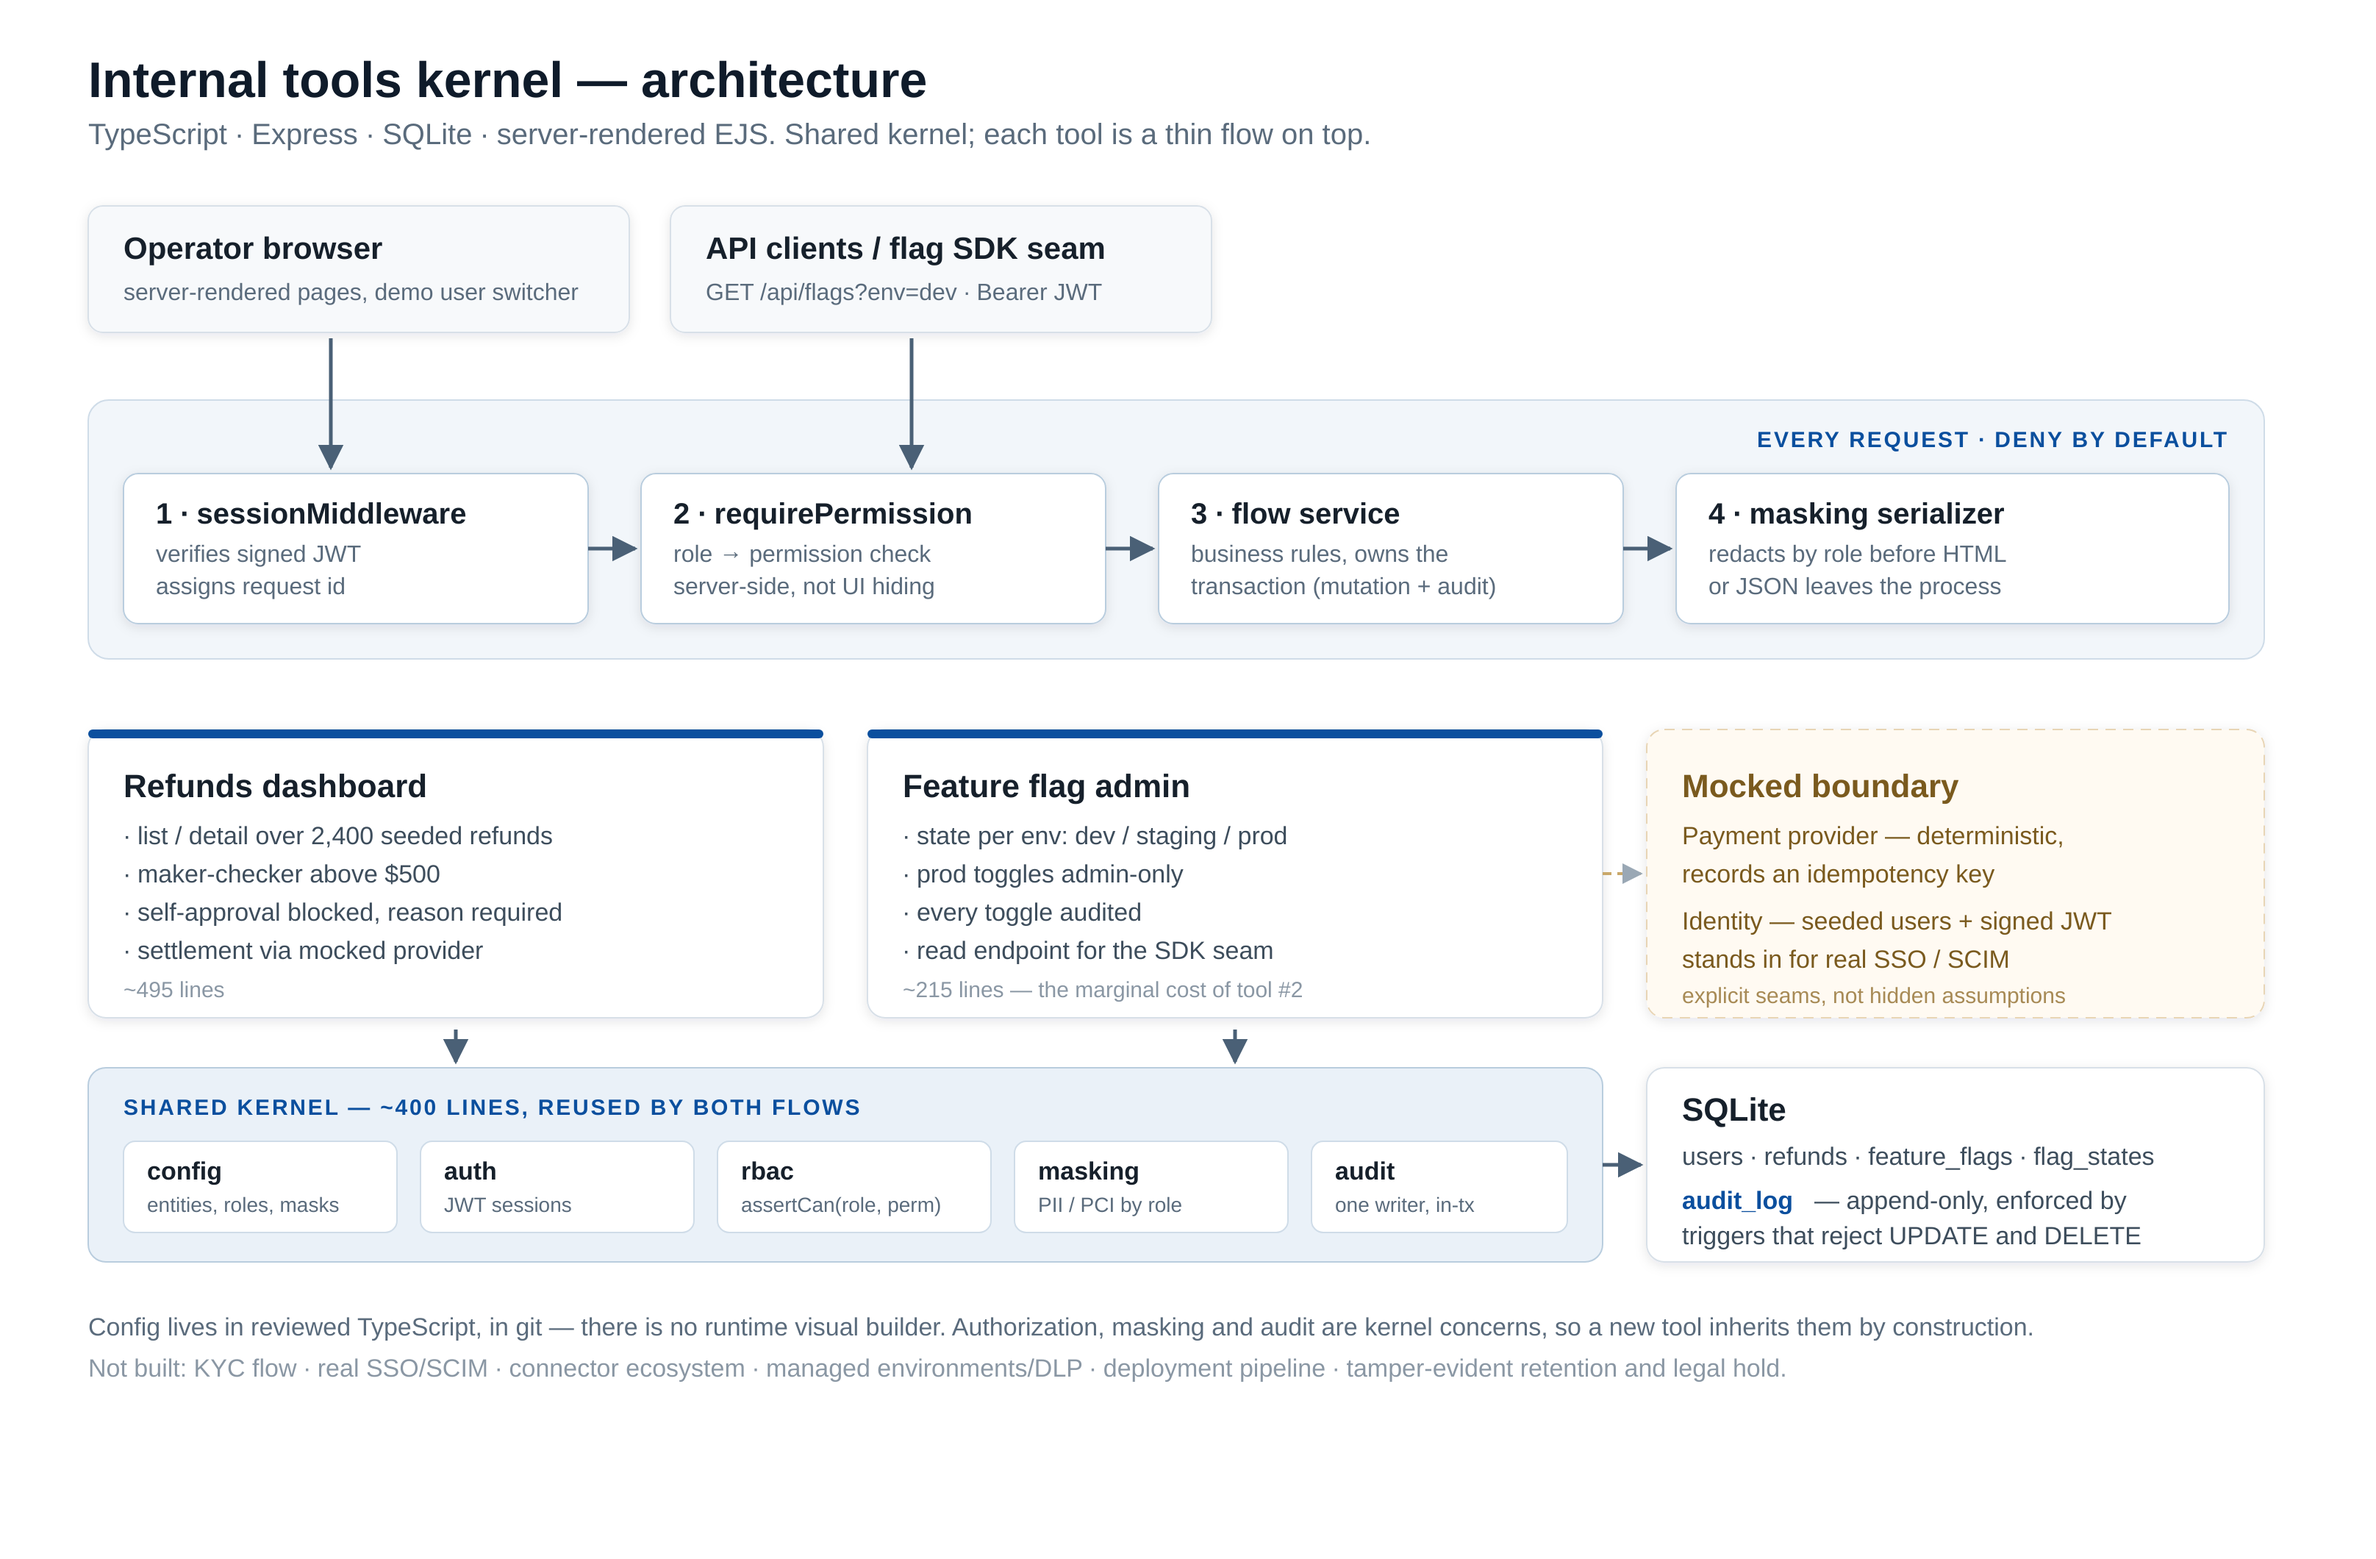
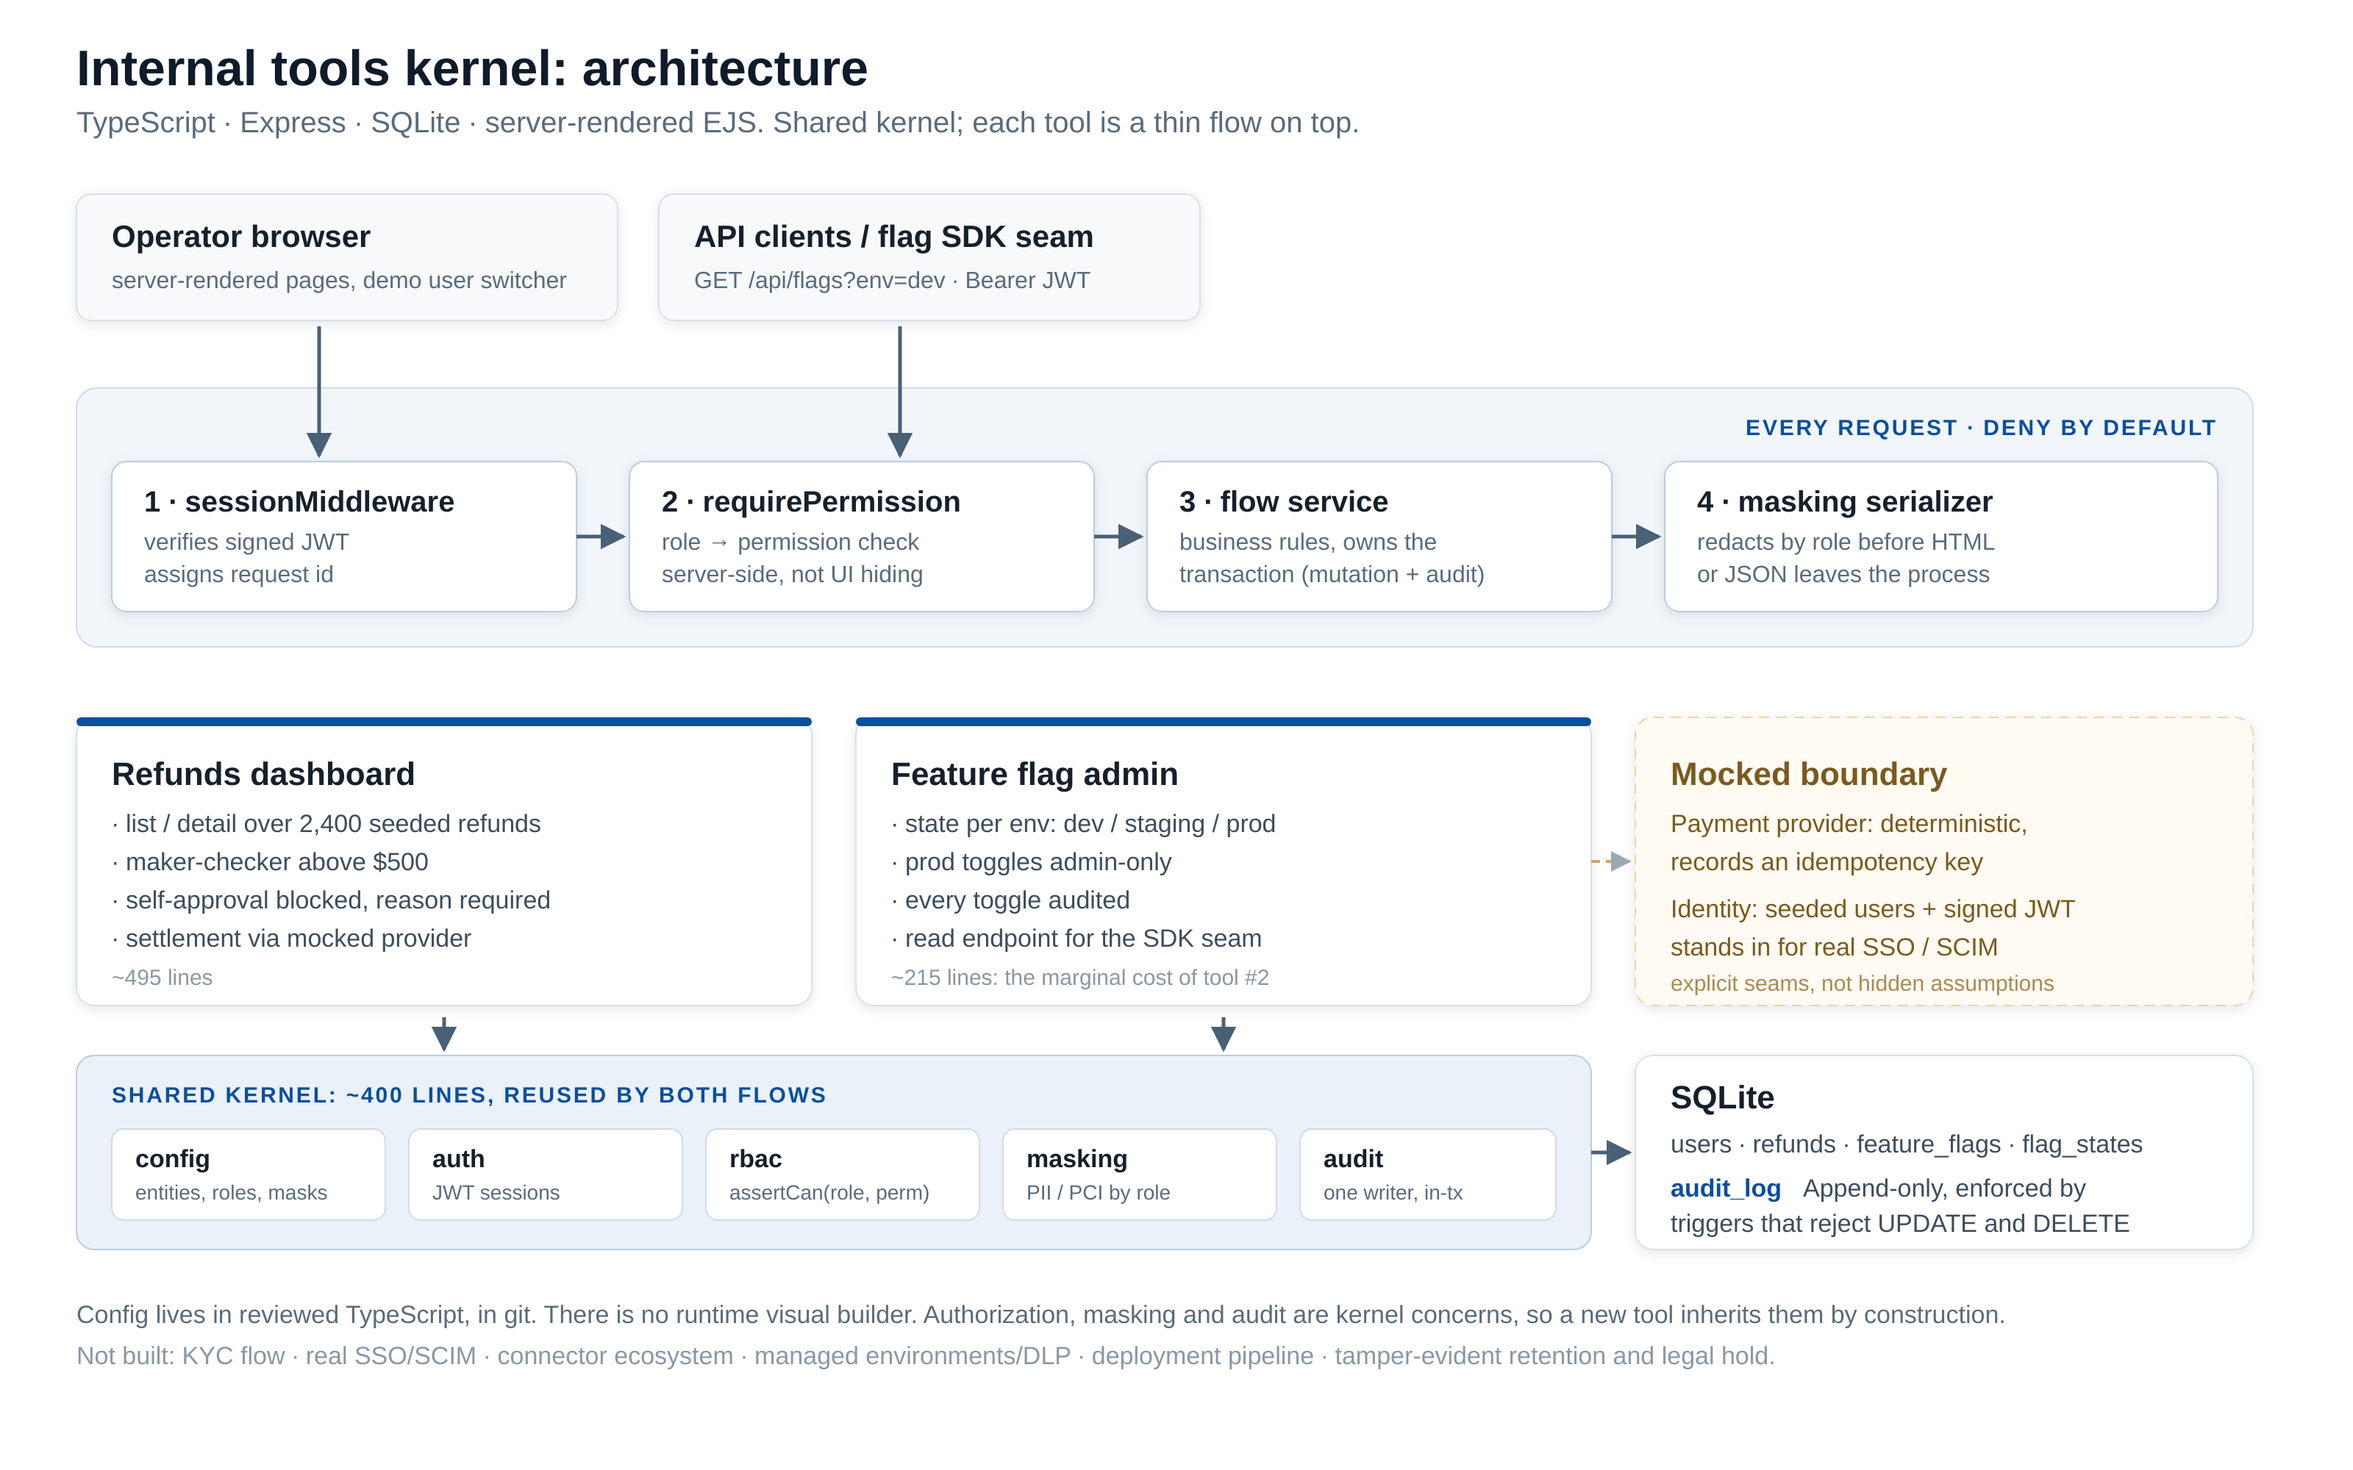
Remove em dashes from deck and architecture diagram

diff --git a/docs/slides.md b/docs/slides.md
@@ -31,7 +31,8 @@ style: |
   .cols > div { flex: 1; }
   .card { background: #f4f7fa; border-radius: 12px; padding: 22px 26px; }
   .card.warn { background: #fdf7ee; }
-  .muted { color: #5a6b7c; font-size: 21px; }
+  .muted { color: #5a6b7c; font-size: 20px; }
+  section.tight { font-size: 25px; }
   .kicker { color: #0b4f9e; font-size: 20px; letter-spacing: 1.6px; text-transform: uppercase; font-weight: bold; }
   section.title { background: #0f1b2a; color: #ffffff; justify-content: center; }
   section.title h1 { color: #ffffff; font-size: 58px; }
@@ -106,14 +107,14 @@ style: |
 <div class="cols">
 <div>
 
-### Refunds — the hard one
+### Refunds: the hard one
 
 $820 request parks unpaid · self-approval **blocked server-side** · second approver must give a reason · full history with actor, role, before/after · viewer sees masked PII **in the API response**
 
 </div>
 <div>
 
-### Flags — the reuse proof
+### Flags: the reuse proof
 
 Same authorization and audit machinery · prod toggles admin-only · **~495 lines** for refunds, **~215** for the second tool
 
@@ -124,7 +125,9 @@ Same authorization and audit machinery · prod toggles admin-only · **~495 line
 
 ---
 
-## What it proves — and what it doesn't
+<!-- _class: tight -->
+
+## What it proves, and what it doesn't
 
 <div class="cols">
 <div>
@@ -146,13 +149,13 @@ Same authorization and audit machinery · prod toggles admin-only · **~495 line
 - Visual builder, Power Automate, connectors
 - Real SSO / SCIM, DLP, managed environments
 - Deployment pipeline, production ownership
-- **Compliance-grade audit evidence** — append-only ≠ tamper-evident; no retention or legal hold
-- Local SQLite; no security review
+- **Compliance-grade audit evidence**: append-only is not tamper-evident, and there is no retention or legal hold
+- Local SQLite, no security review
 
 </div>
 </div>
 
-<span class="muted">Devin accelerated the research, scaffolding, tests, docs and review. The architecture and security calls are mine to defend.</span>
+<span class="muted">Devin accelerated research, scaffolding, tests, docs and review. The architecture and security calls are mine to defend.</span>
 
 ---
 
@@ -165,7 +168,7 @@ Same authorization and audit machinery · prod toggles admin-only · **~495 line
 
 ### 1 · Confirm the $250K
 
-At list pricing it implies **~1,000 seats** — which doesn't match 3 apps and 60 engineers. Likely bundles automation, premium connectors, capacity, or an enterprise commitment.
+At list pricing it implies **~1,000 seats**, which doesn't match 3 apps and 60 engineers. Likely bundles automation, premium connectors, capacity, or an enterprise commitment.
 
 **Retiring the apps may retire less spend than expected.**
 
@@ -196,9 +199,9 @@ Devin changes build cost, not ownership cost: **0.25–0.5 FTE permanently** for
 
 ### Migrate app by app
 
-1. **Feature flags first** — engineering-owned, no customer PII
-2. **Refunds second** — only after security, finance and audit review; it moves money
-3. **KYC last, or never** — PII, vendor integration, regulated recordkeeping
+1. **Feature flags first.** Engineering-owned, no customer PII
+2. **Refunds second.** Only after security, finance and audit review; it moves money
+3. **KYC last, or never.** PII, vendor integration, regulated recordkeeping
 
 </div>
 <div>
@@ -221,4 +224,4 @@ Feature-flag admin, **one engineering team, in production**. Real SSO group→ro
 
 **Build the smaller internal tools platform this company actually needs.**
 
-<span class="muted">Narrow usage, a real kernel, and a staged migration — decided on pilot evidence in a month, not on a platform bet.</span>
+<span class="muted">Narrow usage, a real kernel, a staged migration. Decided on pilot evidence in a month, not on a platform bet.</span>
